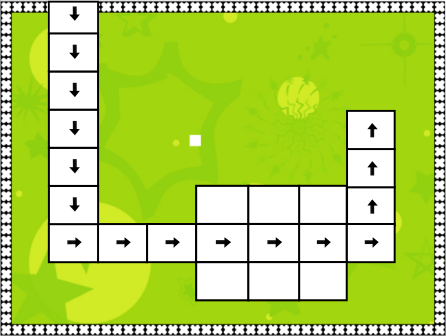
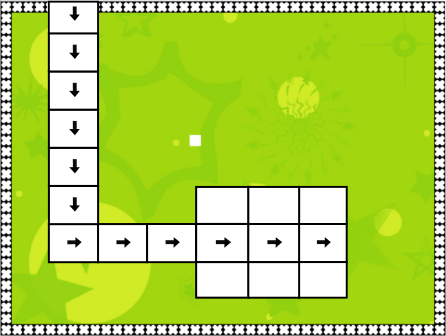
añadiendo video y eliminando pieza girar nivel 6

Changed region(s): [[0.4372, 0.3274, 0.9036, 0.8036], [0.4372, 0.8631, 0.787, 0.9226]]

diff --git a/snake_condicional.html b/snake_condicional.html
@@ -248,7 +248,8 @@
 											</div>
 
 											<div id="finestra-modal3" class="finestra-modal3">
-											  <div class="finestra-modal__contingut3">
+											<iframe width="860" height="515" src="https://www.youtube.com/embed/MKGpXp3bE7Y"  allowfullscreen></iframe>
+											  <!--<div class="finestra-modal__contingut3">
 													<font color="Green" face="Comic Sans MS,arial" size= 5>
 											    <h2>ESTRUCTURA SECUENCIAL</h2>
 												</font>
@@ -269,9 +270,8 @@
 															<img  src="./styles/img/snake.png">
 														</div>
 														<div class="modal_button3">
-														<button class="modal_button13" id="empezar">INICIAR JUEGO</button>
-														<!--<a href="./snake_nivel2.html"><button class="modal_button1">CONTINUAR</button></a>-->
-														</div>
+														<button class="modal_button13" id="empezar">INICIAR JUEGO</button>									
+														</div>-->
 
 											    <div id="finestra-modal-tancar3" class="finestra-modal-tancar boto3">×</div>
 											  </div>

diff --git a/snake_repetitivo.html b/snake_repetitivo.html
@@ -219,7 +219,8 @@
 											</div>
 
 											<div id="finestra-modal3" class="finestra-modal3">
-											  <div class="finestra-modal__contingut3">
+											<iframe width="860" height="515" src="https://www.youtube.com/embed/X3a9zRnCPmc"  allowfullscreen></iframe>
+											  <!--<div class="finestra-modal__contingut3">
 													<font color="Green" face="Comic Sans MS,arial" size= 5>
 											    <h2>ESTRUCTURA SECUENCIAL</h2>
 												</font>
@@ -240,9 +241,8 @@
 															<img  src="./styles/img/snake.png">
 														</div>
 														<div class="modal_button3">
-														<button class="modal_button13" id="empezar">INICIAR JUEGO</button>
-														<!--<a href="./snake_nivel2.html"><button class="modal_button1">CONTINUAR</button></a>-->
-														</div>
+														<button class="modal_button13" id="empezar">INICIAR JUEGO</button>									
+														</div>-->
 
 											    <div id="finestra-modal-tancar3" class="finestra-modal-tancar boto3">×</div>
 											  </div>

diff --git a/snake_secuencial.html b/snake_secuencial.html
@@ -213,7 +213,8 @@
 											</div>
 
 											<div id="finestra-modal3" class="finestra-modal3">
-											  <div class="finestra-modal__contingut3">
+											<iframe width="860" height="515" src="https://www.youtube.com/embed/DAc0KHbnQ2o"  allowfullscreen></iframe>
+											  <!--<div class="finestra-modal__contingut3">
 													<font color="Green" face="Comic Sans MS,arial" size= 5>
 											    <h2>ESTRUCTURA SECUENCIAL</h2>
 												</font>
@@ -234,9 +235,8 @@
 															<img  src="./styles/img/snake.png">
 														</div>
 														<div class="modal_button3">
-														<button class="modal_button13" id="empezar">INICIAR JUEGO</button>
-														<!--<a href="./snake_nivel2.html"><button class="modal_button1">CONTINUAR</button></a>-->
-														</div>
+														<button class="modal_button13" id="empezar">INICIAR JUEGO</button>									
+														</div>-->
 
 											    <div id="finestra-modal-tancar3" class="finestra-modal-tancar boto3">×</div>
 											  </div>

diff --git a/snake_condicional2.html b/snake_condicional2.html
@@ -130,7 +130,7 @@
 														<p> Si la manzana enfrente es verde</p><br>
 													</font>
 													</div>
-													<div class="piece piece-around" data-instruction="around"  draggable="true">
+													<!--<div class="piece piece-around" data-instruction="around"  draggable="true">
 														<!-- <span class="t"></span>
 														<span class="b"></span> -->
 
@@ -146,12 +146,12 @@
 
 														<img class="piece-img" src="./styles/img/long-arrow-right.svg" alt="" /> -->
 
-														<!-- <img class="piece-img" src="./styles/img/long-arrow-left.svg" alt="" /> -->
+														<!-- <img class="piece-img" src="./styles/img/long-arrow-left.svg" alt="" /> 
 														<font color="#181518" face="Comic Sans MS,arial" size= 3>
 														<p> Rodear la manzana</p><br>
 													  </font>
 
-													</div>
+													</div>-->
 											</div>
 												<div class="game-buttons">
 													<button class="btn-first" id="compile" type="button" name="compile" >COMPILAR</button>

diff --git a/scripts/snake_condicional.js b/scripts/snake_condicional.js
@@ -131,8 +131,8 @@ $(document).on('ready', function() {
 
 
 		food1 = {
-			x: Math.round(0.9 * (width - cellWidth) / cellWidth),
-			y: Math.round(0.4 * (height - cellWidth) / cellWidth),
+			x: Math.round(0.7 * (width - cellWidth) / cellWidth),
+			y: Math.round(0.7 * (height - cellWidth) / cellWidth),
 
 		};
 	}
@@ -185,15 +185,31 @@ $(document).on('ready', function() {
 			};
 
 			score++;
+			aDie.play();
+			emptyContainer();
+			finestraModal2.classList.add("js-mostrar2");
+			return;
+
+
+
+		} 
+		else if(nx == food1.x && ny == food1.y) {
+			var tail = {
+				x: nx,
+				y: ny
+			};
+
+			score++;
 			aEat.play();
-
-
 			emptyContainer();
 			finestraModal.classList.add("js-mostrar");
+			return;
 
 
 
-		} else {
+		}
+
+		else {
 
 			salto.play();
 			var tail = snake.pop();

diff --git a/styles/modal_condicional.css b/styles/modal_condicional.css
@@ -10,13 +10,15 @@
   height: 1em;
   color: white;
   background-color: DarkMagenta;
-  font-size: 24px;
+  font-size: 54px;
   font-weight: bold;
   line-height: 1em;
   border-radius: 3px;
   cursor: pointer;
 }
-
+.boto3:hover{  
+  background-color: rgb(141, 232, 0);
+}
 
 .boto3:hover {
   text-decoration: none;

diff --git a/styles/modal_repetitivo.css b/styles/modal_repetitivo.css
@@ -10,13 +10,15 @@
   height: 1em;
   color: white;
   background-color: DarkMagenta;
-  font-size: 24px;
+  font-size: 54px;
   font-weight: bold;
   line-height: 1em;
   border-radius: 3px;
   cursor: pointer;
 }
-
+.boto3:hover{  
+  background-color: rgb(141, 232, 0);
+}
 
 .boto3:hover {
   text-decoration: none;

diff --git a/styles/modal_secuencial.css b/styles/modal_secuencial.css
@@ -10,13 +10,15 @@
   height: 1em;
   color: white;
   background-color: DarkMagenta;
-  font-size: 24px;
+  font-size: 54px;
   font-weight: bold;
   line-height: 1em;
   border-radius: 3px;
   cursor: pointer;
 }
-
+.boto3:hover{  
+  background-color: rgb(141, 232, 0);
+}
 
 .boto3:hover {
   text-decoration: none;
